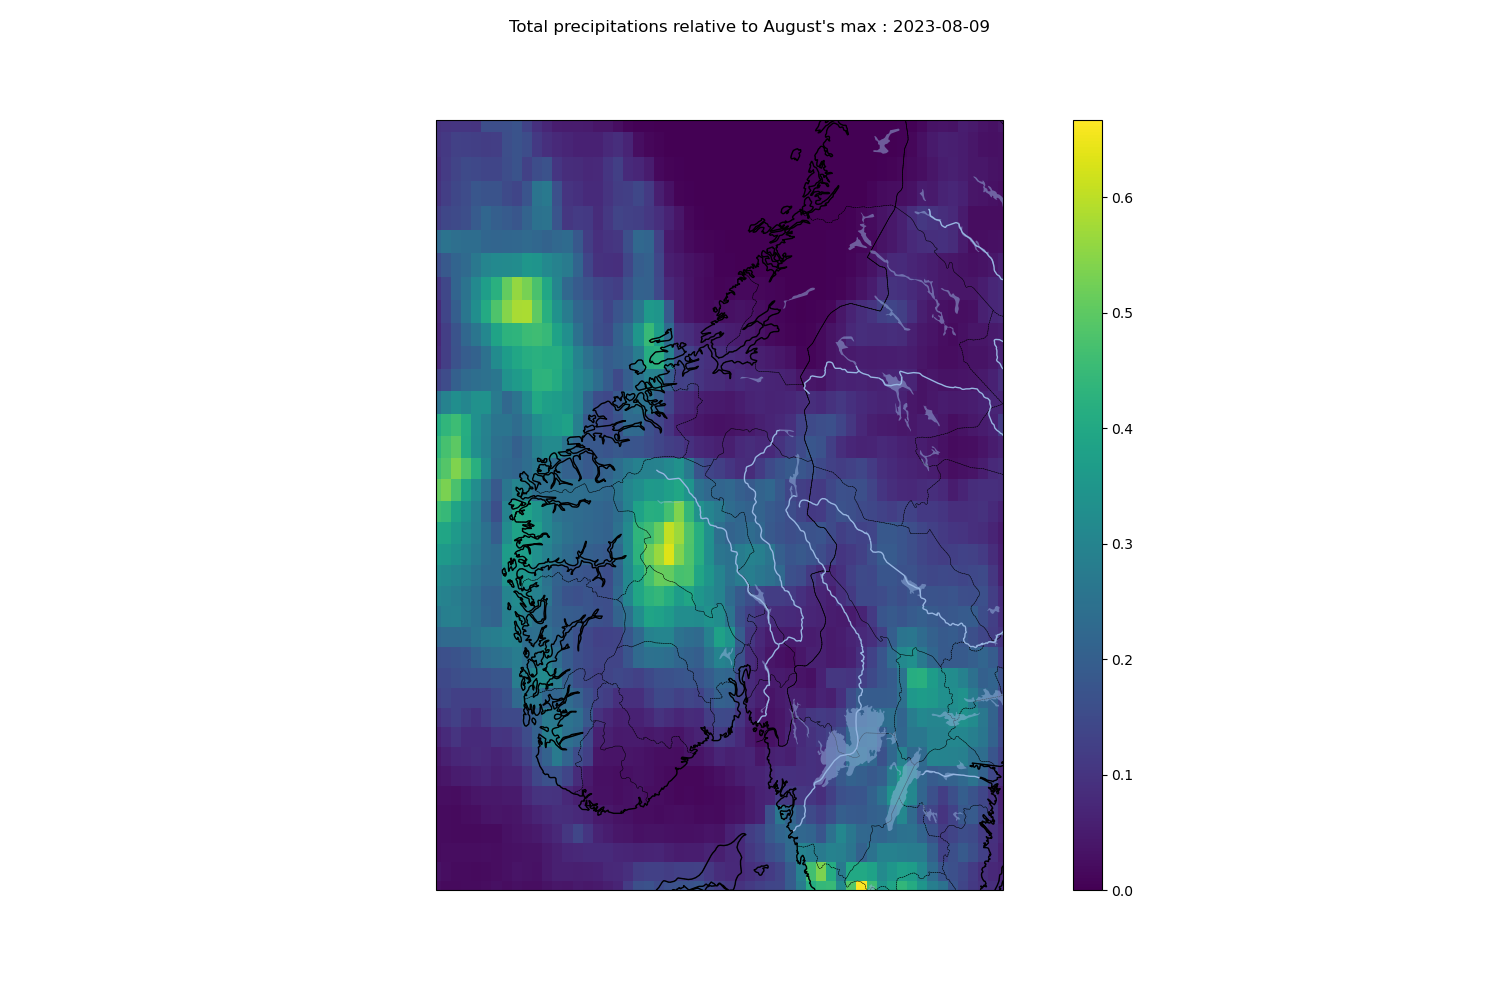
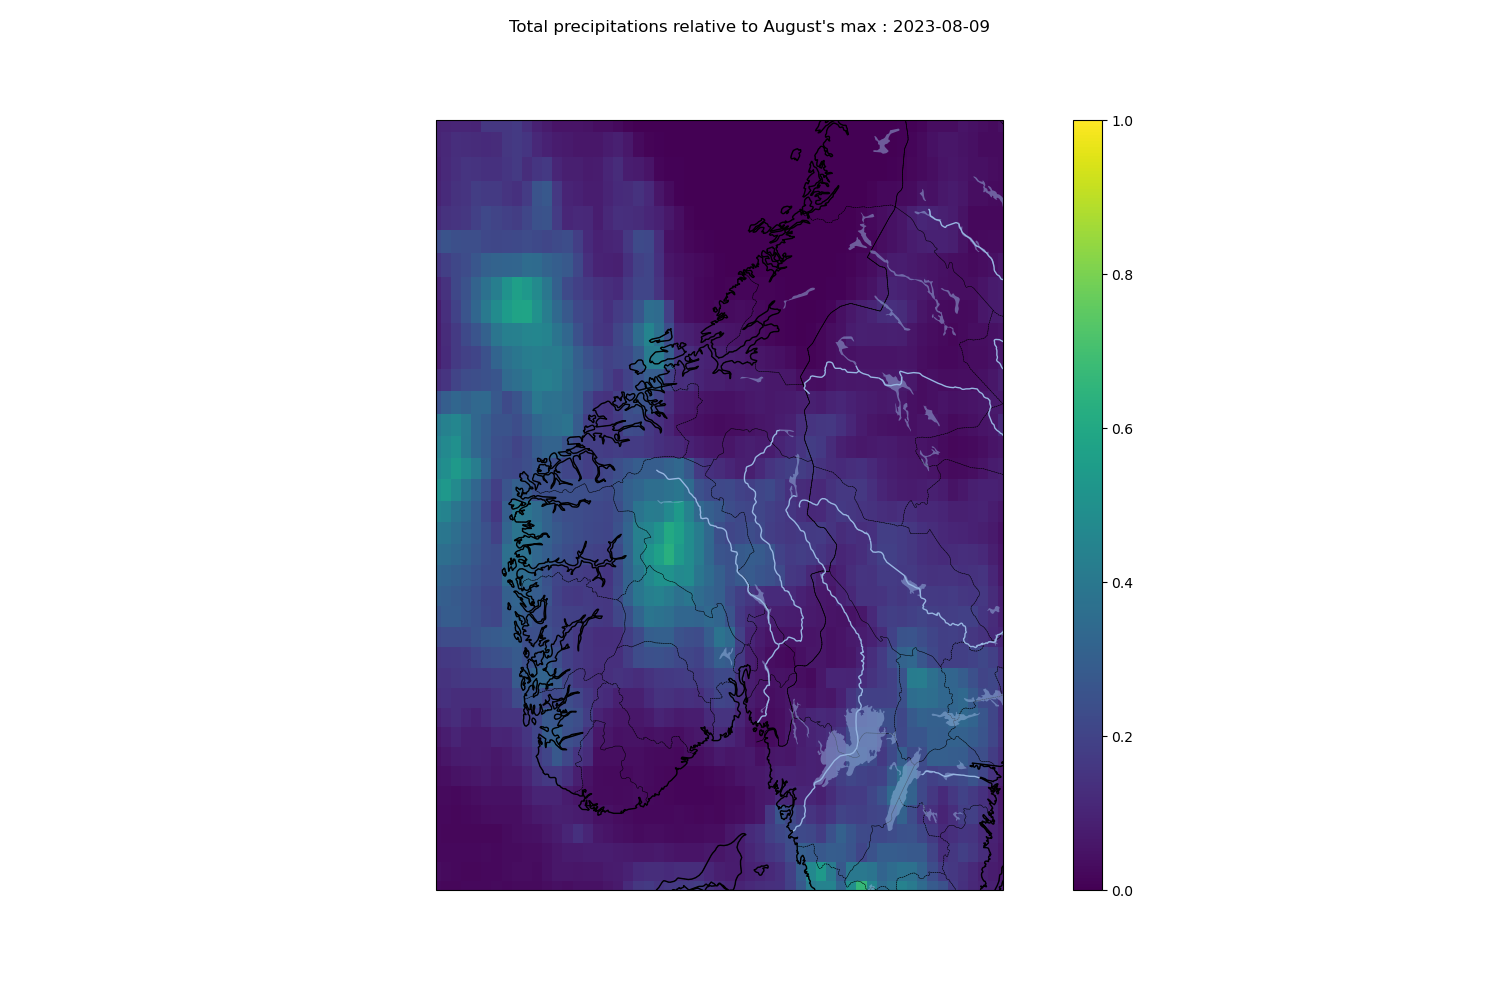
Improving colorbar

Changed region(s): [[0.276, 0.124, 0.552, 0.775], [0.4907, 0.527, 0.6747, 0.899], [0.552, 0.496, 0.5827, 0.527]]

diff --git a/python_mapping/weatherdata_generic.py b/python_mapping/weatherdata_generic.py
@@ -48,14 +48,19 @@ def showcase_data(data:xr.DataArray,
                   nbMap:int=1,
                   **kwargs:np.ndarray) -> tuple :
     
+    extent = kwargs.get('extent', None)
+
     if not 'time' in data.dims:
         data = data.expand_dims("time").transpose("time","latitude","longitude")            # If no time dimension, reshape the array to fit the data access later
         
     timesIndex = kwargs.get('timesIndex', data['time'])                                     # Setting the default value for the time selection to all the dataset
     assert((timesIndex.min()>=data['time'][0]) & (timesIndex.max()<=data['time'][-1]))      # Checking if the time selection does not get out of range for the dataset's dimension
-
-    effectSample = select_sample(data, boundaries, timesIndex)                              # Selecting the values of the dataset that will be plotted to determine the best extent for the colorbar
-    vmin, vmax = effectSample.min(skipna=True), effectSample.max(skipna=True)               # Computing the range of the colorbar
+    
+    if extent:
+        vmin, vmax = extent
+    else:
+        effectSample = select_sample(data, boundaries, timesIndex)                          # Selecting the values of the dataset that will be plotted to determine the best extent for the colorbar
+        vmin, vmax = effectSample.min(skipna=True), effectSample.max(skipna=True)           # Computing the range of the colorbar
     
     _, Y, X = data.dims
     for i in range(nbMap):

diff --git a/hans_storm/script/hans_relative.py b/hans_storm/script/hans_relative.py
@@ -38,7 +38,8 @@ else:
 
 tp2023 = tpSet.open_data(key=('continuous','tp24_'+resolution+'_2023'))
 
-hansData = [tp2023.sel(time=wd.np.datetime64('2023-08-07')),
+hansData = [tp2023.sel(time=wd.np.datetime64('2023-08-06')),
+            tp2023.sel(time=wd.np.datetime64('2023-08-07')),
             tp2023.sel(time=wd.np.datetime64('2023-08-08')),
             tp2023.sel(time=wd.np.datetime64('2023-08-09'))]
 
@@ -49,20 +50,20 @@ for dailyData in hansData:
     date = wd.np.datetime_as_string(dailyData['time'].values)[:10]
     title = "Total precipitations relative to August's max : " + date
     fileName = "tp24_relative-max-august_all-res_" + date
-    fig, axis = wd.draw_map(res, title=title)
+    fig, axis = wd.draw_map(res, title=title, extent=(0,1))
     fig.savefig(endDir+fileName+'.png')
     wd.geo.plt.close()
 
 hansMean = wd.mean_over_time(
     tp2023.sel(time=slice(
-        wd.np.datetime64('2023-08-07'),
+        wd.np.datetime64('2023-08-06'),
         wd.np.datetime64('2023-08-09')
     )), 
     3).sel(time=wd.np.datetime64('2023-08-08'))
 
 res = hansMean / data
 title = "Hans mean precipitations relative to August's max"
-fileName = "tp24_relative-max-august_all-res_hans"
-fig, axis = wd.draw_map(res, title=title)
+fileName = "tp24_relative-max-august_all-res_hans-06-09"
+fig, axis = wd.draw_map(res, title=title, extent=(0,1))
 fig.savefig(endDir+fileName+'.png')
 wd.geo.plt.close()

diff --git a/python_mapping/functions.py b/python_mapping/functions.py
@@ -15,6 +15,7 @@ def draw_map(data:xr.DataArray, **kwargs) :
     times = kwargs.get('times', []) 
     coordsRange = kwargs.get('mapSize', "largeNo")                                              # The boundaries of the map in terms of geographic coordinates (default is all center and south of Norway)
     figSize = kwargs.get('figSize', "medium")
+    extent = kwargs.get('extent', None)
 
     if 'time' in data.coords:
         nbMaps = len(data['time'].values)                                                       # Set the number of subplots and the grid dimension to fit the DataArrays
@@ -24,7 +25,7 @@ def draw_map(data:xr.DataArray, **kwargs) :
 
     boundaries = weatherdata_generic.boundaries(data, size=coordsRange)[0]                      # Compute the map's boundaries to fit the dataset
     fig, axis = geo.map(nbRows, nbColumns, nbMaps, figSize, boundaries)                         # Create the map with proper size and geographical background
-    fig, axis = weatherdata_generic.showcase_data(data, boundaries, fig, axis, nbMaps) # Plot the data
+    fig, axis = weatherdata_generic.showcase_data(data, boundaries, fig, axis, nbMaps, extent=extent) # Plot the data
 
     if len(times)!=0:
         for i in range(nbMaps):                                                                 # If years have been specified
